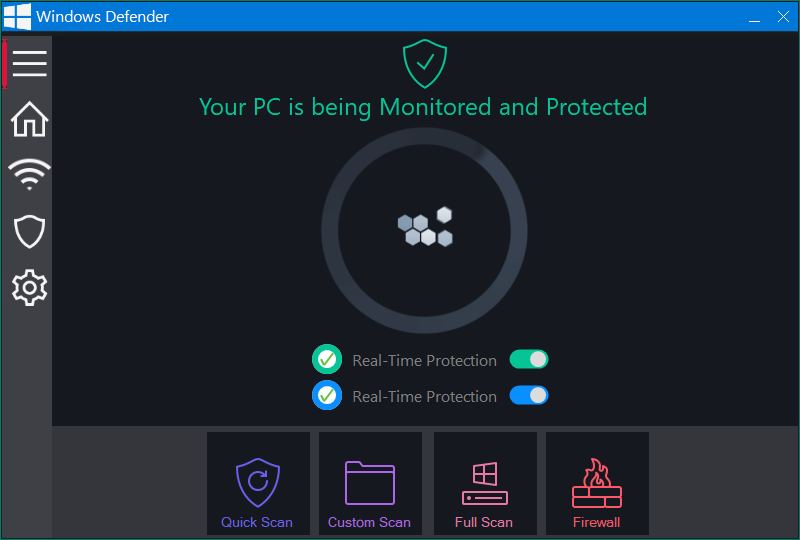
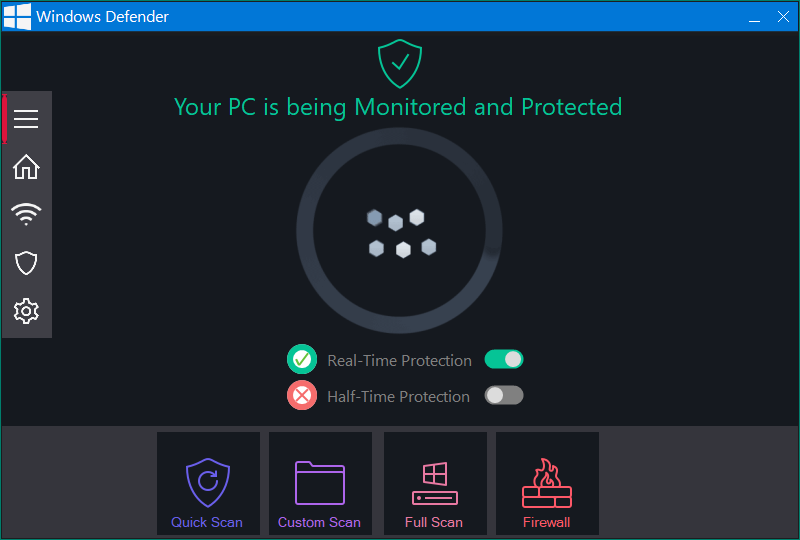
53X Again 459!

diff --git a/sample/ReaLTaiizor.Defender/ReaLTaiizor.Defender/Defender.designer.cs b/sample/ReaLTaiizor.Defender/ReaLTaiizor.Defender/Defender.designer.cs
@@ -74,14 +74,13 @@
             lostPanel1.Controls.Add(pictureBox3);
             lostPanel1.Controls.Add(pictureBox2);
             lostPanel1.Controls.Add(panel1);
-            lostPanel1.Dock = System.Windows.Forms.DockStyle.Left;
             lostPanel1.Font = new System.Drawing.Font("Segoe UI", 12F);
             lostPanel1.ForeColor = System.Drawing.Color.White;
-            lostPanel1.Location = new System.Drawing.Point(2, 36);
+            lostPanel1.Location = new System.Drawing.Point(2, 91);
             lostPanel1.Name = "lostPanel1";
             lostPanel1.Padding = new System.Windows.Forms.Padding(5);
             lostPanel1.ShowText = false;
-            lostPanel1.Size = new System.Drawing.Size(50, 502);
+            lostPanel1.Size = new System.Drawing.Size(50, 247);
             lostPanel1.TabIndex = 1;
             lostPanel1.Text = "lostPanel1";
             // 
@@ -89,9 +88,9 @@
             // 
             pictureBox6.Cursor = System.Windows.Forms.Cursors.Hand;
             pictureBox6.Image = global::ReaLTaiizor.Defender.Properties.Resources.Setting;
-            pictureBox6.Location = new System.Drawing.Point(5, 227);
+            pictureBox6.Location = new System.Drawing.Point(8, 204);
             pictureBox6.Name = "pictureBox6";
-            pictureBox6.Size = new System.Drawing.Size(45, 50);
+            pictureBox6.Size = new System.Drawing.Size(32, 32);
             pictureBox6.SizeMode = System.Windows.Forms.PictureBoxSizeMode.Zoom;
             pictureBox6.TabIndex = 12;
             pictureBox6.TabStop = false;
@@ -101,9 +100,9 @@
             // 
             pictureBox5.Cursor = System.Windows.Forms.Cursors.Hand;
             pictureBox5.Image = global::ReaLTaiizor.Defender.Properties.Resources.Connect;
-            pictureBox5.Location = new System.Drawing.Point(5, 115);
+            pictureBox5.Location = new System.Drawing.Point(8, 108);
             pictureBox5.Name = "pictureBox5";
-            pictureBox5.Size = new System.Drawing.Size(45, 50);
+            pictureBox5.Size = new System.Drawing.Size(32, 32);
             pictureBox5.SizeMode = System.Windows.Forms.PictureBoxSizeMode.Zoom;
             pictureBox5.TabIndex = 11;
             pictureBox5.TabStop = false;
@@ -113,9 +112,9 @@
             // 
             pictureBox4.Cursor = System.Windows.Forms.Cursors.Hand;
             pictureBox4.Image = global::ReaLTaiizor.Defender.Properties.Resources.Guard;
-            pictureBox4.Location = new System.Drawing.Point(5, 171);
+            pictureBox4.Location = new System.Drawing.Point(8, 156);
             pictureBox4.Name = "pictureBox4";
-            pictureBox4.Size = new System.Drawing.Size(45, 50);
+            pictureBox4.Size = new System.Drawing.Size(32, 32);
             pictureBox4.SizeMode = System.Windows.Forms.PictureBoxSizeMode.Zoom;
             pictureBox4.TabIndex = 10;
             pictureBox4.TabStop = false;
@@ -125,9 +124,9 @@
             // 
             pictureBox3.Cursor = System.Windows.Forms.Cursors.Hand;
             pictureBox3.Image = global::ReaLTaiizor.Defender.Properties.Resources.Home;
-            pictureBox3.Location = new System.Drawing.Point(5, 59);
+            pictureBox3.Location = new System.Drawing.Point(8, 60);
             pictureBox3.Name = "pictureBox3";
-            pictureBox3.Size = new System.Drawing.Size(45, 50);
+            pictureBox3.Size = new System.Drawing.Size(32, 32);
             pictureBox3.SizeMode = System.Windows.Forms.PictureBoxSizeMode.Zoom;
             pictureBox3.TabIndex = 9;
             pictureBox3.TabStop = false;
@@ -137,9 +136,9 @@
             // 
             pictureBox2.Cursor = System.Windows.Forms.Cursors.Hand;
             pictureBox2.Image = global::ReaLTaiizor.Defender.Properties.Resources.Menu;
-            pictureBox2.Location = new System.Drawing.Point(5, 3);
+            pictureBox2.Location = new System.Drawing.Point(8, 12);
             pictureBox2.Name = "pictureBox2";
-            pictureBox2.Size = new System.Drawing.Size(45, 50);
+            pictureBox2.Size = new System.Drawing.Size(32, 32);
             pictureBox2.SizeMode = System.Windows.Forms.PictureBoxSizeMode.Zoom;
             pictureBox2.TabIndex = 8;
             pictureBox2.TabStop = false;
@@ -171,11 +170,11 @@
             lostPanel2.Dock = System.Windows.Forms.DockStyle.Bottom;
             lostPanel2.Font = new System.Drawing.Font("Segoe UI", 12F);
             lostPanel2.ForeColor = System.Drawing.Color.White;
-            lostPanel2.Location = new System.Drawing.Point(52, 426);
+            lostPanel2.Location = new System.Drawing.Point(2, 426);
             lostPanel2.Name = "lostPanel2";
             lostPanel2.Padding = new System.Windows.Forms.Padding(5);
             lostPanel2.ShowText = false;
-            lostPanel2.Size = new System.Drawing.Size(746, 112);
+            lostPanel2.Size = new System.Drawing.Size(796, 112);
             lostPanel2.TabIndex = 2;
             lostPanel2.Text = "lostPanel2";
             // 
@@ -288,9 +287,9 @@
             hopePictureBox1.BackColor = System.Drawing.Color.Transparent;
             hopePictureBox1.Dock = System.Windows.Forms.DockStyle.Fill;
             hopePictureBox1.Image = global::ReaLTaiizor.Defender.Properties.Resources.Live;
-            hopePictureBox1.Location = new System.Drawing.Point(52, 36);
+            hopePictureBox1.Location = new System.Drawing.Point(2, 36);
             hopePictureBox1.Name = "hopePictureBox1";
-            hopePictureBox1.Size = new System.Drawing.Size(746, 390);
+            hopePictureBox1.Size = new System.Drawing.Size(796, 390);
             hopePictureBox1.SizeMode = System.Windows.Forms.PictureBoxSizeMode.Zoom;
             hopePictureBox1.TabIndex = 3;
             hopePictureBox1.TabStop = false;
@@ -301,7 +300,7 @@
             labelEdit1.BackColor = System.Drawing.Color.Transparent;
             labelEdit1.Font = new System.Drawing.Font("Segoe UI", 18F);
             labelEdit1.ForeColor = System.Drawing.Color.FromArgb(((int)(((byte)(4)))), ((int)(((byte)(196)))), ((int)(((byte)(150)))));
-            labelEdit1.Location = new System.Drawing.Point(193, 89);
+            labelEdit1.Location = new System.Drawing.Point(168, 89);
             labelEdit1.Name = "labelEdit1";
             labelEdit1.Size = new System.Drawing.Size(464, 32);
             labelEdit1.TabIndex = 6;
@@ -310,7 +309,7 @@
             // pictureBox1
             // 
             pictureBox1.Image = global::ReaLTaiizor.Defender.Properties.Resources.Protected;
-            pictureBox1.Location = new System.Drawing.Point(400, 39);
+            pictureBox1.Location = new System.Drawing.Point(375, 39);
             pictureBox1.Name = "pictureBox1";
             pictureBox1.Size = new System.Drawing.Size(50, 50);
             pictureBox1.SizeMode = System.Windows.Forms.PictureBoxSizeMode.Zoom;
@@ -331,7 +330,7 @@
             hopeRoundProgressBar1.FullTextColorA = System.Drawing.Color.FromArgb(((int)(((byte)(103)))), ((int)(((byte)(194)))), ((int)(((byte)(58)))));
             hopeRoundProgressBar1.FullTextColorB = System.Drawing.Color.FromArgb(((int)(((byte)(103)))), ((int)(((byte)(194)))), ((int)(((byte)(58)))));
             hopeRoundProgressBar1.IsError = false;
-            hopeRoundProgressBar1.Location = new System.Drawing.Point(312, 380);
+            hopeRoundProgressBar1.Location = new System.Drawing.Point(287, 380);
             hopeRoundProgressBar1.Name = "hopeRoundProgressBar1";
             hopeRoundProgressBar1.PercentText = "%";
             hopeRoundProgressBar1.Size = new System.Drawing.Size(30, 30);
@@ -348,7 +347,7 @@
             hopeSwitch1.Checked = true;
             hopeSwitch1.CheckState = System.Windows.Forms.CheckState.Checked;
             hopeSwitch1.Cursor = System.Windows.Forms.Cursors.Hand;
-            hopeSwitch1.Location = new System.Drawing.Point(509, 349);
+            hopeSwitch1.Location = new System.Drawing.Point(484, 349);
             hopeSwitch1.Name = "hopeSwitch1";
             hopeSwitch1.Size = new System.Drawing.Size(40, 20);
             hopeSwitch1.TabIndex = 11;
@@ -365,7 +364,7 @@
             hopeSwitch2.Checked = true;
             hopeSwitch2.CheckState = System.Windows.Forms.CheckState.Checked;
             hopeSwitch2.Cursor = System.Windows.Forms.Cursors.Hand;
-            hopeSwitch2.Location = new System.Drawing.Point(509, 385);
+            hopeSwitch2.Location = new System.Drawing.Point(484, 385);
             hopeSwitch2.Name = "hopeSwitch2";
             hopeSwitch2.Size = new System.Drawing.Size(40, 20);
             hopeSwitch2.TabIndex = 12;
@@ -387,7 +386,7 @@
             hopeRoundProgressBar2.FullTextColorA = System.Drawing.Color.FromArgb(((int)(((byte)(103)))), ((int)(((byte)(194)))), ((int)(((byte)(58)))));
             hopeRoundProgressBar2.FullTextColorB = System.Drawing.Color.FromArgb(((int)(((byte)(103)))), ((int)(((byte)(194)))), ((int)(((byte)(58)))));
             hopeRoundProgressBar2.IsError = false;
-            hopeRoundProgressBar2.Location = new System.Drawing.Point(312, 344);
+            hopeRoundProgressBar2.Location = new System.Drawing.Point(287, 344);
             hopeRoundProgressBar2.Name = "hopeRoundProgressBar2";
             hopeRoundProgressBar2.PercentText = "%";
             hopeRoundProgressBar2.Size = new System.Drawing.Size(30, 30);
@@ -401,11 +400,12 @@
             labelEdit6.BackColor = System.Drawing.Color.Transparent;
             labelEdit6.Font = new System.Drawing.Font("Segoe UI", 12F);
             labelEdit6.ForeColor = System.Drawing.Color.Gray;
-            labelEdit6.Location = new System.Drawing.Point(348, 349);
+            labelEdit6.Location = new System.Drawing.Point(323, 349);
             labelEdit6.Name = "labelEdit6";
             labelEdit6.Size = new System.Drawing.Size(155, 21);
             labelEdit6.TabIndex = 14;
             labelEdit6.Text = "Real-Time Protection";
+            labelEdit6.TextAlign = System.Drawing.ContentAlignment.TopCenter;
             // 
             // labelEdit7
             // 
@@ -413,11 +413,12 @@
             labelEdit7.BackColor = System.Drawing.Color.Transparent;
             labelEdit7.Font = new System.Drawing.Font("Segoe UI", 12F);
             labelEdit7.ForeColor = System.Drawing.Color.Gray;
-            labelEdit7.Location = new System.Drawing.Point(348, 385);
+            labelEdit7.Location = new System.Drawing.Point(323, 385);
             labelEdit7.Name = "labelEdit7";
-            labelEdit7.Size = new System.Drawing.Size(155, 21);
+            labelEdit7.Size = new System.Drawing.Size(153, 21);
             labelEdit7.TabIndex = 15;
-            labelEdit7.Text = "Real-Time Protection";
+            labelEdit7.Text = "Half-Time Protection";
+            labelEdit7.TextAlign = System.Drawing.ContentAlignment.TopCenter;
             // 
             // Defender
             // 
@@ -434,9 +435,9 @@
             Controls.Add(hopeRoundProgressBar1);
             Controls.Add(pictureBox1);
             Controls.Add(labelEdit1);
+            Controls.Add(lostPanel1);
             Controls.Add(hopePictureBox1);
             Controls.Add(lostPanel2);
-            Controls.Add(lostPanel1);
             HeaderColor = System.Drawing.Color.FromArgb(((int)(((byte)(1)))), ((int)(((byte)(119)))), ((int)(((byte)(215)))));
             Icon = ((System.Drawing.Icon)(resources.GetObject("$Icon")));
             Image = global::ReaLTaiizor.Defender.Properties.Resources.Windows;

diff --git a/sample/ReaLTaiizor.Defender/ReaLTaiizor.Defender/Defender.cs b/sample/ReaLTaiizor.Defender/ReaLTaiizor.Defender/Defender.cs
@@ -23,27 +23,27 @@ namespace ReaLTaiizor.Defender
 
         private void PictureBox2_Click(object sender, EventArgs e)
         {
-            panel1.Location = new Point(0, pictureBox2.Location.Y);
+            panel1.Location = new Point(0, 3);
         }
 
         private void PictureBox3_Click(object sender, EventArgs e)
         {
-            panel1.Location = new Point(0, pictureBox3.Location.Y);
+            panel1.Location = new Point(0, 51);
         }
 
         private void PictureBox4_Click(object sender, EventArgs e)
         {
-            panel1.Location = new Point(0, pictureBox4.Location.Y);
+            panel1.Location = new Point(0, 147);
         }
 
         private void PictureBox5_Click(object sender, EventArgs e)
         {
-            panel1.Location = new Point(0, pictureBox5.Location.Y);
+            panel1.Location = new Point(0, 99);
         }
 
         private void PictureBox6_Click(object sender, EventArgs e)
         {
-            panel1.Location = new Point(0, pictureBox6.Location.Y);
+            panel1.Location = new Point(0, 195);
         }
     }
 }

diff --git a/sample/ReaLTaiizor.Defender/ReaLTaiizor.Defender/Properties/AssemblyInfo.cs b/sample/ReaLTaiizor.Defender/ReaLTaiizor.Defender/Properties/AssemblyInfo.cs
@@ -5,7 +5,7 @@ using System.Runtime.InteropServices;
 // denetlenir. Bütünleştirilmiş kod ile ilişkili bilgileri değiştirmek için
 // bu öznitelik değerlerini değiştirin.
 [assembly: AssemblyTitle("ReaLTaiizor Defender")]
-[assembly: AssemblyDescription("ReaLTaiizor Defender v1.0.0.5")]
+[assembly: AssemblyDescription("ReaLTaiizor Defender v1.0.0.6")]
 [assembly: AssemblyConfiguration("")]
 [assembly: AssemblyCompany("Taiizor")]
 [assembly: AssemblyProduct("ReaLTaiizor Defender")]
@@ -31,5 +31,5 @@ using System.Runtime.InteropServices;
 // Tüm değerleri belirtebilir veya varsayılan Derleme ve Düzeltme Numaralarını kullanmak için
 // aşağıda gösterildiği gibi '*' kullanabilirsiniz:
 // [assembly: AssemblyVersion("1.0.*")]
-[assembly: AssemblyVersion("1.0.0.5")]
-[assembly: AssemblyFileVersion("1.0.0.5")]
+[assembly: AssemblyVersion("1.0.0.6")]
+[assembly: AssemblyFileVersion("1.0.0.6")]
